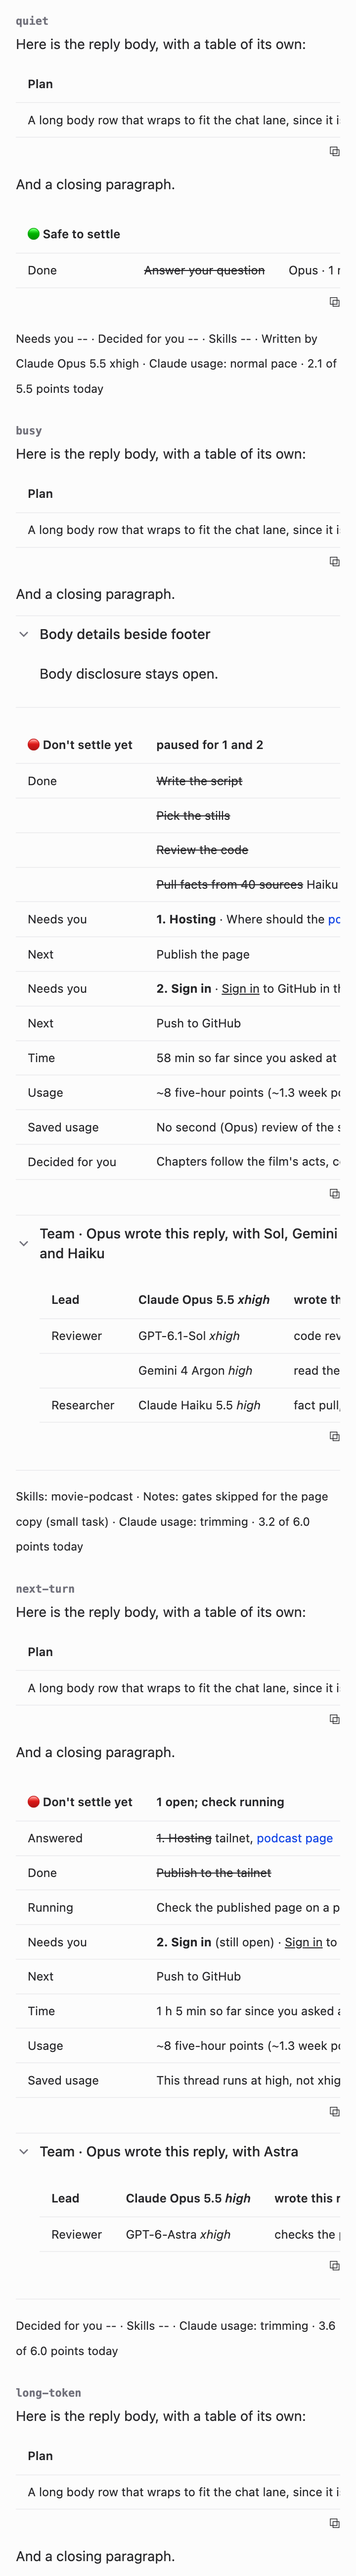
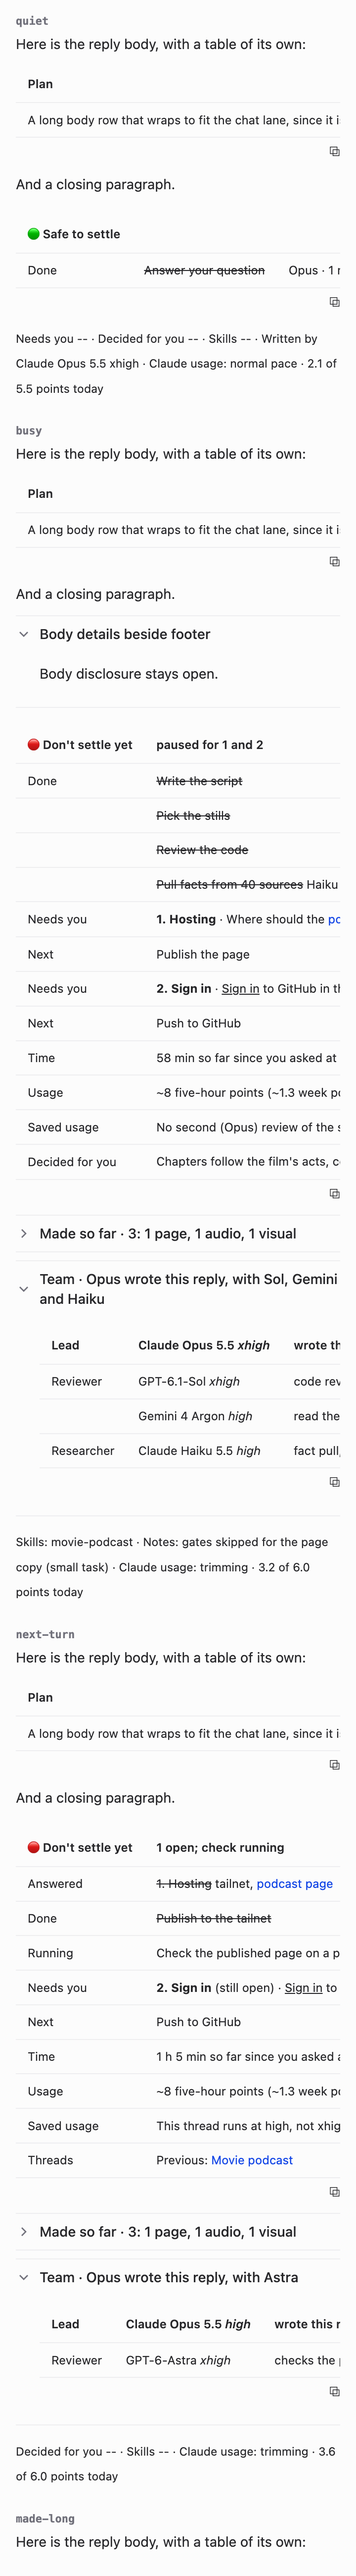
Red Needs you rows, a Threads row for handover links, one overdue amber
Andy, 13 Nov 2026: "Needs You text should be in red. also, list somewhere
with links to the previous and any next handover thread." Needs you rows
(ordinary and folded) get the verdict's red label, a 2px red bar and a 9% red
tint; a last Threads row links the neighbouring handover threads and keeps the
Decided-for-you label width. Overdue words now mix 85% warning colour with
15% text colour (5.31:1 or better on every band in light). The threads-last
test case covers the Threads row and an overdue Running row; screenshots and
the README pictures are redrawn.

diff --git a/footer.css b/footer.css
@@ -59,8 +59,10 @@
    * resizing", "Still off"). Status labels share one width per card, wide enough for the longest label it uses. */
   --t3x-lw: calc(5.1em + 1rem);
   &:has(tbody [itemprop~="saved"]) { --t3x-lw: calc(6.3em + 1rem); }
-  /* "Decided for you" is the last row and has no who-and-when (:has() can't nest, so this is how it is found) */
-  &:has(tbody tr:last-child > td:last-child:empty) { --t3x-lw: calc(7.9em + 1rem); }
+  /* "Decided for you" has no who-and-when: it is the last row with an empty third cell, or the row just before a
+   * Threads row, which comes last and has an empty third cell too (:has() can't nest, so the card takes two tests) */
+  &:has(tbody tr:last-child > td:last-child:empty):not(:has(tbody tr:last-child [itemprop~="threads"])) { --t3x-lw: calc(7.9em + 1rem); }
+  &:has(tbody tr:last-child [itemprop~="threads"]):has(tbody tr:nth-last-child(2) > td:last-child:empty) { --t3x-lw: calc(7.9em + 1rem); }
   & table { display: block; width: 100%; min-width: 0; font-size: .8125rem; line-height: 1.5; font-variant-numeric: tabular-nums; }
   & tbody { display: block; }
   & tbody tr { display: flex; flex-wrap: wrap; align-items: flex-start; }
@@ -114,9 +116,10 @@
     animation: t3x-footer-pulse 1.6s ease-in-out infinite;
   }
 
-  /* needs you: a neutral bar and a faint tint, the label in full strength; the words to act on are underlined */
-  & tbody tr:has(> td:nth-child(2) > strong:first-child) { background: color-mix(in srgb, var(--foreground) 5%, transparent); box-shadow: inset 2px 0 0 var(--foreground); padding-block: .36rem; }
-  & tbody tr:has(> td:nth-child(2) > strong:first-child) td:first-child { color: var(--foreground); }
+  /* needs you (Andy, 13 Nov 2026: "Needs You text should be in red"; the team's pick, his yes the same night): a red
+   * bar, a 9% red tint and the label in the verdict's red; the item's own words, links and action words keep their colours; the words to act on are underlined */
+  & tbody tr:has(> td:nth-child(2) > strong:first-child) { background: color-mix(in srgb, var(--t3x-bad) 9%, transparent); box-shadow: inset 2px 0 0 var(--t3x-bad); padding-block: .36rem; }
+  & tbody tr:has(> td:nth-child(2) > strong:first-child) td:first-child { color: color-mix(in srgb, var(--t3x-bad) 75%, var(--foreground)); }
   /* a folded Needs you item (the Thread health watch writes each item as a <details> in the step cell, its advice as a
    * second <details> inside): one tight line each, without T3's fold border, padding or larger type; an open item's
    * text is lightly indented (Andy, 7 Nov 2026: "it's still so big, can you make it more compact when it's in its
@@ -126,8 +129,8 @@
   & td:nth-child(2) [data-markdown-details-summary] > svg { width: .8rem; height: .8rem; }
   & td:nth-child(2) [data-markdown-details-content] { padding: .15rem 0 .3rem 1rem; }
   & td:nth-child(2) [data-markdown-details-content] div:has(> [data-markdown-details]) { margin-top: .25rem; }
-  & tbody tr:has(> td:nth-child(2) > div:first-child > [data-markdown-details] > [data-markdown-details-summary] strong:first-child) { background: color-mix(in srgb, var(--foreground) 5%, transparent); box-shadow: inset 2px 0 0 var(--foreground); padding-block: .1rem; }
-  & tbody tr:has(> td:nth-child(2) > div:first-child > [data-markdown-details] > [data-markdown-details-summary] strong:first-child) td:first-child { color: var(--foreground); }
+  & tbody tr:has(> td:nth-child(2) > div:first-child > [data-markdown-details] > [data-markdown-details-summary] strong:first-child) { background: color-mix(in srgb, var(--t3x-bad) 9%, transparent); box-shadow: inset 2px 0 0 var(--t3x-bad); padding-block: .1rem; }
+  & tbody tr:has(> td:nth-child(2) > div:first-child > [data-markdown-details] > [data-markdown-details-summary] strong:first-child) td:first-child { color: color-mix(in srgb, var(--t3x-bad) 75%, var(--foreground)); }
   & tbody tr:has(> td:nth-child(2) > div:first-child > [data-markdown-details]) > td { padding-block: .06rem; }
   /* decided for you: quiet, still readable */
   & tbody tr:has(> td:last-child:empty):not(:has(strong, del, [itemprop])) td:nth-child(2) { color: var(--muted-foreground); }
@@ -137,8 +140,9 @@
   & tbody tr:has([itemprop~="saved"]) { background: color-mix(in srgb, var(--warning, #f59e0b) 9%, transparent); box-shadow: inset 2px 0 0 var(--warning, #f59e0b); }
   & tbody tr:has([itemprop~="saved"]) td:first-child { color: var(--foreground); }
   & tbody tr:has([itemprop~="saved"]) td:last-child { color: color-mix(in srgb, var(--muted-foreground) 55%, var(--foreground)); }
-  /* time over its plan (rule "Honest time"): the theme's warning text colour */
-  & [itemprop~="over"] { color: var(--warning-foreground, #b45309); }
+  /* time over its plan (rule "Honest time"): the theme's warning text colour with 15% of the text colour, so it reads
+   * at 4.5:1 or better on every band, the red Needs you and blue Running rows included (Andy, 13 Nov 2026, the team's pick) */
+  & [itemprop~="over"] { color: color-mix(in srgb, var(--warning-foreground, #b45309) 85%, var(--foreground)); }
 
   /* header as a caption: verdict, reason, then progress and ETA on the right */
   & thead {

diff --git a/RULES.md b/RULES.md
@@ -1,5 +1,5 @@
 ## End every reply to Andy with a footer
-End every reply to Andy (each turn's last message), even short ones, with a footer: the turn's plan (what finished, what's running, what needs him, what's next), honest time against the plan, anything changed to save usage, whether the thread is finished, and who did the work. `---`, one plan table, a Made so far list once the thread has made something for him to open, a team rundown when other agents worked, one small line. T3's add-ons draw it as one card: the verdict red or green, running steps in the theme's accent, finished steps crossed out, who and when on the right. Copy these shapes.
+End every reply to Andy (each turn's last message), even short ones, with a footer: the turn's plan (what finished, what's running, what needs him, what's next), honest time against the plan, anything changed to save usage, whether the thread is finished, and who did the work. `---`, one plan table, a Made so far list once the thread has made something for him to open, a team rundown when other agents worked, one small line. T3's add-ons draw it as one card: the verdict red or green, Needs you rows in red, running steps in the theme's accent, finished steps crossed out, who and when on the right. Copy these shapes.
 
 A quiet turn:
 
@@ -70,6 +70,7 @@ The next turn, after Andy answers 1 with a card still open for 2:
 | Time | 1 h 5 min so far since you asked at 8:58 PM, 2 min of it waiting on you; about 15 more once you sign in | <span itemprop="over">planned ~45 min · expect ~1 h 20</span> |
 | Usage | ~8 five-hour points (~1.3 week points) expected at the default efforts (baseline); about 7 so far (this thread and its children, estimated); this thread at high, no change expected for publishing (my judgment) | 5-hour 52% · refills 11:00 PM |
 | Saved usage | <span itemprop="saved">This thread runs at high, not xhigh</span>, since 9:58 PM (you approved): no change expected for publishing steps (my judgment) | under 10% of a turn |
+| Threads | <span itemprop="threads">Previous: [Movie podcast](t3-thread://v2/env/thread-id)</span> |   |
 
 <details><summary><span itemprop="made">Made so far</span> · 3: 1 page, 1 audio, 1 visual</summary>
 
@@ -96,8 +97,8 @@ When he resolves the last open item: `| Answered | 🎉 All answered, thanks! ~~
 **Layout.**
 - Blank lines before and after `---`, after the plan table, after each `<summary>…</summary>`, before and after each `</details>` and before the `<sub>` line. One physical line per row, always three cells (an unused cell holds one space); escape every literal `|` in a cell as `\|`, in code and links too; no `\` line endings.
 - **Header row:** the verdict; a reason of 5 words or fewer (empty when green); progress `N of M done` (N = Done rows, M = Done + Running + Next rows, continuation rows included), then `· ETA 10:05 PM` when nothing listed waits on Andy, or `· then about 10 min` (from when he acts to the end, running work included) when something does; empty for a turn with one step or none. Separator `|---|---|--:|`.
-- **Plan rows** in time order, each label on the first row of its run: `Answered` (`~~N. Topic~~ answer`, one row per item resolved since the last reply); `Done` (`~~step~~`, steps finished this turn, the deliverable linked); `Running` (`<span itemprop="running">step</span>`); `Needs you` (each open item right above the step it unblocks, else after Running); `Next`; `Time`; `Usage`; `Saved usage`; `Decided for you` (this turn's choices Andy may want to change, and how; no reply needed, not carried forward). Steps read like a plan: 2–6 words naming the subject (`Review the card CSS`), no trailing punctuation. A quick answer is one Done row (`~~Answer your question~~`); a turn that only records an answer shows its Answered row and the plan still to come, with no invented Done step.
-- **Who and when** (third cell): Done `Sol · 11 min · planned 8`; Running `Sol · 9:41–9:55 PM · planned 10`; Next `Opus · ~5 min`; a step added later `added · planned 5` (estimated before it started) or `added · not estimated beforehand`; empty for Answered, Needs you and Decided for you. Short names: Opus, Fable, Haiku, Sonnet, Sol, Astra, Grok, Gemini (4 Argon), Flash (3.8 Flash); a script says `script`.
+- **Plan rows** in time order, each label on the first row of its run: `Answered` (`~~N. Topic~~ answer`, one row per item resolved since the last reply); `Done` (`~~step~~`, steps finished this turn, the deliverable linked); `Running` (`<span itemprop="running">step</span>`); `Needs you` (each open item right above the step it unblocks, else after Running); `Next`; `Time`; `Usage`; `Saved usage`; `Decided for you` (this turn's choices Andy may want to change, and how; no reply needed, not carried forward); `Threads` (last; **Threads row** below). Steps read like a plan: 2–6 words naming the subject (`Review the card CSS`), no trailing punctuation. A quick answer is one Done row (`~~Answer your question~~`); a turn that only records an answer shows its Answered row and the plan still to come, with no invented Done step.
+- **Who and when** (third cell): Done `Sol · 11 min · planned 8`; Running `Sol · 9:41–9:55 PM · planned 10`; Next `Opus · ~5 min`; a step added later `added · planned 5` (estimated before it started) or `added · not estimated beforehand`; empty for Answered, Needs you, Decided for you and Threads. Short names: Opus, Fable, Haiku, Sonnet, Sol, Astra, Grok, Gemini (4 Argon), Flash (3.8 Flash); a script says `script`.
 - **Honest time** (Andy, 19 Oct 2026: end-to-end and per-task time "against pre-determined expectation"):
   - Before work of more than one step, estimate the whole and each step in your first message of the task (an opening note counts), and record the request time and plan (in the living handoff file for multi-turn work). Every later footer, across turns and handovers, compares against those numbers; a re-plan is shown beside the original (`planned ~45 min, re-planned 1 h 30`).
   - **Time row** in every footer of a planned task, first reply to last (waiting, answer-only and one-step turns included; only a quick standalone answer has none). Second cell: the time since Andy asked and when (`58 min so far since you asked at 8:58 PM; about 10 more once you answer`; `in all` at the end), naming time spent waiting on him, never subtracting it. Third cell: the planned total and, while work remains, the expected total (`planned ~45 min · expect ~1 h 10`); at the end, the difference (`· 13 over`, `· 5 under`, `· on plan` within 10%). Count queues, usage pauses, failed runs, retries, gates and publishing; never add up parallel steps.
@@ -105,6 +106,7 @@ When he resolves the last open item: `| Answered | 🎉 All answered, thanks! ~~
   - Compare unrounded; show whole minutes (at least 1) in Mac local time (`h:mm PM`). Round estimates up to `~1`, `~2`, `~5` or `~10 min`, then in steps of 5 (`~1 h 15`), and clock ETAs up to the next 5 minutes. Wrap a time or expected total more than a quarter, and at least 5 minutes, over plan in `<span itemprop="over">`.
 - **Usage row** (Andy, 20 Oct 2026: "always transparently report expected usage vs quality savings/degradation", with the baseline), in every footer that has a Time row, right after it. Second cell: this task's expected Claude use at the default efforts (the baseline, in 5-hour points, plus week points once it's a point or more), the amount used so far (a task planning no Claude use writes `no Claude use planned`), and any lowered effort with its quality effect in a few words (details in Saved usage). Third cell: the 5-hour window now and its refill (`5-hour 41% · refills 11:00 PM`), adding `· runs out ~10:40 PM at this pace` when `claude-tier` prints a 5-hour pace note. `thread-cost` gives only one Claude session's recent split between context and output, not a task total or plan points, so report "used so far" only from an accounting scoped to this task's lead and child calls, saying what it covers (`about 0.5 so far, this thread only`), or write `used so far: unmeasured`. Converting API-equivalent dollars to points (about $4 per 5-hour point, 20 Oct 2026) is a rough estimate.
 - **Saved usage** (Andy, 19 Oct 2026: only "the changes from default, and what impact if any"): one row per change from the default that a usage rule caused this turn (a tier, dire straits, a Codex-gate fallback, a skipped optional reviewer, a lower effort for a helper), and one for this thread's own lowered effort while it's in effect. Give the default, what ran instead and the rule, and the likely quality effect, marked measured (name the test) or your judgment; the third cell gives the rough saving (`~1 Claude point`, `under 10% of a turn`, `unmeasured`). Put the change in `<span itemprop="saved">`. Nothing changed, no row.
+- **Threads row** (Andy, 13 Nov 2026: "list somewhere with links to the previous and any next handover thread"; the team's pick, his yes the same night). Every footer of a thread that took over from another ends its plan table with `| Threads | <span itemprop="threads">Previous: [title](t3-thread://…)</span> |   |`, and the reply that hands over writes `Previous: [X] · Next: [Y]` (`Next: [Y]` alone in a first thread). Each is the thread's `link` copied whole, exactly as `t3_thread_list`, `t3_thread_read` or `t3_thread_launch` gives it (already a complete `[title](t3-thread://v2/…)` link; never the handover tool's short `t3-thread://v1/…` owner link), kept in the handoff file. Neighbours only: never "no next thread yet", and a thread with neither has no row. The row isn't counted in the header's progress, and like Made so far it doesn't count against giving a link once (**Links**).
 - **Made so far** (Andy, 12 Nov 2026: a section "for anything non-text created in the thread (and have it survive handoffs) … so I don't have to scroll up to find these things"; his six card answers that evening set the rest). From the reply in which the thread first makes something for Andy to open, every footer carries the list, right after the plan table and above the team rundown, quick answers included; a thread that has made nothing has no list.
   - **Shape:** `<details>` (never `open`: the ✦ add-ons open short lists in a wide pane), the summary `<span itemprop="made">Made so far</span> · N: ` then how many of each kind, its name in lower case and singular for one (`· 14: 3 pages, 3 audio, 8 visuals`; `· 3: 1 page, 1 audio, 1 visual`; `2 videos`, but `audio` never takes an s). Then a blank line and a three-column table, one thing per row, whose first row doubles as the header row (as `Lead` does in the team rundown), so the `|---|---|---|` line is always the second line, also after a new first row goes in above it. Its columns: the kind, on the first row of its group only; the thing's name in plain words, as the link; a note.
   - **Listed:** things made for Andy to open, and only those: pages and sites, Claude artifacts and phone pages (`Pages`); `Audio`; `Video`; visuals shown inline in the thread (`Visuals`); `Images`; and `Documents` (PDFs, slides, spreadsheets, a data export made for him). Never repos, pull requests or code. Never your own working files (briefs, logs, handoff files, and checks or screenshots he wasn't shown). Anything non-text you showed him or linked for him in a reply, or made because he asked, is a thing made for him. Things your helpers made for him count. Kinds in that order, empty kinds left out, newest first inside a kind (by when each thing was made or last changed). One row per thing: a visual you redraw or a page you publish keeps its row, with the link and note updated; versions made for him to compare keep a row each.
@@ -114,7 +116,7 @@ When he resolves the last open item: `| Answered | 🎉 All answered, thanks! ~~
   - **Kept** in the handoff file's section 9, `Made in this thread` (the same three columns, each thing's date and time in full; `Nothing yet` until there is one), updated in the turn a thing is made or changes; the footer shows that section's rows (not its `| Kind | Thing | Note |` header line, when it has one), each with a clock time for today or a date otherwise. A thread with no handoff file copies the list forward from its last footer, turning an earlier day's clock times into dates, and copies it into section 9 when it starts a file. After a handover the new thread first changes `in this thread` to `earlier thread` in section 9's notes (its heading stays `Made in this thread`), then shows the whole list from its first footer on. A row leaves the list only when Andy asks.
 - **Team rundown,** only when another agent started or reported this turn: `<details open><summary>Team · Opus wrote this reply, with Sol and Astra</summary>`, a blank line, a table headed `| Lead | <this reply's exact model> *effort* | wrote this reply |`, then one row per agent grouped by role (Gatekeeper for pre-OK and final OK, Reviewer, Builder, Researcher; the closest fit; the role on its group's first row only): exact model and effort, then job · status (`running`, how long once done, or a failure in `<span itemprop="failed">`); a blank line, then `</details>`. Always write `open`; the ✦ add-ons panel decides how Andy sees it.
 - **The `<sub>` line:** `Needs you --`, `Decided for you --` and `Skills --` for each empty field; `Skills: …` (invoked this turn) and `Notes: …` when they have content; `Written by <exact model> <effort>` when there's no rundown; then the usage.
-- **Markup:** the verdict in `<span itemprop="settle-yes">` or `settle-no`; the `running`, `failed`, `over`, `saved`, `made` and `mac-only` spans above; `<ins>` on the words Andy acts on (`<ins>Reply</ins>`, `<ins>Sign in</ins>`); `~~…~~` only on Done steps and Answered items; bold only item topics. No other markup, no model pills, no ⚡ or 🔶.
+- **Markup:** the verdict in `<span itemprop="settle-yes">` or `settle-no`; the `running`, `failed`, `over`, `saved`, `made`, `mac-only` and `threads` spans above; `<ins>` on the words Andy acts on (`<ins>Reply</ins>`, `<ins>Sign in</ins>`); `~~…~~` only on Done steps and Answered items; bold only item topics. No other markup, no model pills, no ⚡ or 🔶.
 
 **Verdict** (it tells Andy whether the thread is finished; T3: Cmd+Shift+S).
 - `🟢 Safe to settle` is the most conservative reading of "finished" (Andy, 22 Oct 2026: "rely on the settle as the most conservative interpretation of can settle … what I want to get out of the original and followup requests and if those have actually been achieved or not. not just are there any open tasks left"). Before choosing it, reread his original request and every follow-up in the thread, name the outcome each was for (what he wanted to get, not the steps you listed), and check each against evidence seen this session (a test run, the live page, the file, the command's output), never a worker's self-report, a plan's tick or memory. When in doubt, red.
@@ -141,7 +143,7 @@ When he resolves the last open item: `| Answered | 🎉 All answered, thanks! ~~
 - **Resolution:** valid decisions and approvals resolve questions (write-ins count); `Done` resolves an action only when it's complete; `Not now` defers it, keeping it open unless Andy drops it. Show each newly resolved item once in the Answered row, struck through with its answer (`~~1. Hosting~~ tailnet`), outside the open count. Start the row with `🎉 All answered, thanks!` only in the first footer after the last open item resolves; 🎉 doesn't change the verdict test.
 - The body holds the reasoning; the footer lists. Keep each item's number the same in body, cards and footer.
 
-**Links** (Andy, 16 Oct 2026; Sol, Astra and Gemini agreed). Put each link inline where its thing is named, never on a line of its own: this turn's new or updated main deliverable in the Done row that made it; an open item's page, PR, file, doc or thread inside its Needs you row, repeated while it stays open; a just-resolved item's link once, beside its Answered receipt. When the same deliverable also appears in Done, keep its link only in Answered. Leave out other recent links. The Made so far list (**Layout**) is separate: it repeats each thing the thread has made in every footer, takes none of these links out of the plan rows, and doesn't count against "give it once"; secret-bearing links and pages that log their opens keep their limits there too. An inline visual's link in the list is its saved file, a real link, so "named, not linked" doesn't apply to it there. Usually give one per item, the thing Andy would open; if one link fits twice, give it once, in the open item. Label each in plain words. Local files take an absolute path (in a Markdown link, wrap one with spaces in `<…>`). Never invent a link (a page shown only inline is named, not linked), never link anything secret-bearing (tokens, webhook URLs) or change sharing to get a link, and say when a link has stopped working. A page that logs its opens (such as a blind reading test) gets its URL once per thread, then only its name, since Mac link previews fetch links. Links change no counts, cards or verdict.
+**Links** (Andy, 16 Oct 2026; Sol, Astra and Gemini agreed). Put each link inline where its thing is named, never on a line of its own: this turn's new or updated main deliverable in the Done row that made it; an open item's page, PR, file, doc or thread inside its Needs you row, repeated while it stays open; a just-resolved item's link once, beside its Answered receipt. When the same deliverable also appears in Done, keep its link only in Answered. Leave out other recent links. The Made so far list (**Layout**) is separate: it repeats each thing the thread has made in every footer, takes none of these links out of the plan rows, and doesn't count against "give it once"; secret-bearing links and pages that log their opens keep their limits there too. An inline visual's link in the list is its saved file, a real link, so "named, not linked" doesn't apply to it there. The Threads row's neighbour links repeat in every footer too and don't count against giving a link once either. Usually give one per item, the thing Andy would open; if one link fits twice, give it once, in the open item. Label each in plain words. Local files take an absolute path (in a Markdown link, wrap one with spaces in `<…>`). Never invent a link (a page shown only inline is named, not linked), never link anything secret-bearing (tokens, webhook URLs) or change sharing to get a link, and say when a link has stopped working. A page that logs its opens (such as a blind reading test) gets its URL once per thread, then only its name, since Mac link previews fetch links. Links change no counts, cards or verdict.
 
 **Explain every reference where it appears** (Andy, 16 Oct 2026: "I'm a human, I don't automatically know what that is referencing"). Whenever a reply names something from earlier work (a plan step, rule, item, test, batch, file, codename or count), add a short plain-English explanation in parentheses right there, every time, even if explained before or in the same reply's footer, cards or questions. Example: "…with rule 3 (judge a reply together with the post it replies to), on production's 1,138 unclear posts (the 3% that September's Gemini run couldn't call funny or not)…", not "…with rule 3, on the 1,138 unclears…".
 
@@ -151,7 +153,7 @@ When he resolves the last open item: `| Answered | 🎉 All answered, thanks! ~~
 - The usage ends the `<sub>` line, exactly as `claude-tier` or `lab-usage` prints it after `footer:` (e.g. `Claude usage: protecting · 23.0 of 9.8 points today`), or `Claude usage: protected (effort test)` for protected work, or `Claude usage: unknown` with no reading.
 - The footer is only for Andy. Agent-assigned work (subagent briefs, `delegate_task` prompts, agent- or script-started `codex exec` runs) omits it and ends with one line: `Model/effort: …; skills used: …; agents: …; needs Andy: …` (what only he can decide or do, or none). Ask your subagents for it; carry their "needs Andy" items into Needs you in your own words.
 
-**Before sending,** check: footer present; the verdict test and its span, with "running" read from T3's task state; every question or offer in the body also in a card or a Needs you row; times from `date` against the plan, the Time row and the Usage row; a Saved usage row for every change a usage rule made; every unresolved item with number, link and `(still open)`, above the step it unblocks; receipts once, in Answered only; three cells and one line per row, each literal `|` escaped; exact models and efforts in the rundown or `Written by`; the Made so far list when the thread has made anything for Andy to open, matching the handoff file's section 9 when there is one; the usage line.
+**Before sending,** check: footer present; the verdict test and its span, with "running" read from T3's task state; every question or offer in the body also in a card or a Needs you row; times from `date` against the plan, the Time row and the Usage row; a Saved usage row for every change a usage rule made; every unresolved item with number, link and `(still open)`, above the step it unblocks; receipts once, in Answered only; three cells and one line per row, each literal `|` escaped; exact models and efforts in the rundown or `Written by`; the Made so far list when the thread has made anything for Andy to open, matching the handoff file's section 9 when there is one; the Threads row after a handover; the usage line.
 
 This section is the same in `~/.claude/CLAUDE.md`, `~/.codex/AGENTS.md` and `~/.gemini/GEMINI.md`; change all three together.
 

diff --git a/docs/DECISIONS.md b/docs/DECISIONS.md
@@ -16,3 +16,6 @@ Dated choices that shaped the footer, oldest first.
 - **7 Nov 2026:** In a lane of 40rem or more, a busy card (five or more rows) widens to the lane, up to 52rem ("when window is wider than the footer table, please have it expand to fit, within reason"). Astra picked full width; Gemini preferred a card that grows only a little. Full width won because it cut the most wrapped lines while keeping who-and-when on one right edge.
 - **7 Nov 2026:** T3 Nightly removed the `chat-lane` container the narrow and wide layouts were keyed to, so they stopped applying in the live app. footer.css now gives each reply that ends in a footer card its own container (`t3x-lane`), only those replies, since making every reply text a container would collapse T3's shrink-to-fit message bubbles. The tests no longer supply `chat-lane`.
 - **12 Nov 2026:** A "Made so far" list under the card, above the team list, for the things a thread has made that the reader opens (pages and sites, artifacts, inline visuals, images, audio, video, documents; never repos, pull requests or code), "so I don't have to scroll up to find these things". Andy's six picks, each the review team's agreed advice: its own fold under the card, a small table with one thing per row, grouped by kind, the name as the link; agents always write it folded, and an add-on switch (start folded, open short lists, always open, hide) starts on "open short lists" (five things or fewer open by themselves on the newest reply in a wide pane); kinds in the order Pages, Audio, Video, Visuals, Images, Documents, newest first inside each, empty kinds left out; notes say what you get or where it is, then when, and things that only open on the author's Mac start "Mac only" (hidden inside the Mac app); links open the saved copy. The list survives a handover: it lives in the thread's handoff file and the new thread reprints it. footer.css keys the team-list rules so they never act on the Made fold. Later that evening he confirmed the team's wording for five leftover points: the switch is named "Footer Made so far list"; counts read `2 videos` and `3 audio`; an agent's own working files (briefs, logs, checks or screenshots the reader wasn't shown) are never listed; a thing whose link no longer works keeps its row, unlinked, with the note `no longer opens` (`deleted` only when that is known); and a click on a link in a list the add-on opened by itself holds it open while that reply is the newest.
+- **13 Nov 2026:** Needs you rows turn red ("Needs You text should be in red"): the label in the verdict's red, a 2px red bar and a 9% red tint, on ordinary rows and the health watch's folded items. The item's own words, links and underlined action words keep their colours. A cross-lab review team agreed unanimously in round 3: 9% matches the other bands (measured colour difference against the card: red 8.5 in light, 10.2 in dark, beside Running 8.7 and 11.3); red action words read as a third kind of link. The confirm also offered a smaller fix, only the label in red, which Andy passed over.
+- **13 Nov 2026:** A last "Threads" row links the neighbouring handover threads ("list somewhere with links to the previous and any next handover thread"): `Previous: [title]` in every footer of a thread that took over, plus `Next: [title]` on the reply that hands over. Neighbours only, with no "5th thread" count: handover titles already carry their number, and at phone width a count dropped under "Next" like a caption. The row carries `itemprop="threads"` so it keeps the card's label width and isn't drawn quiet; a row written without that span still reads, but quiet and at the Decided-for-you width.
+- **13 Nov 2026:** Overdue and over-plan words (`itemprop="over"`) use one slightly darker amber everywhere: the theme's warning text colour with 15% of the text colour. The red band put them at 4.42:1 in light, and they were already 4.46:1 on the blue Running row (40 real footers carried an overdue time there, and no test covered it). The new colour reads at 5.31:1 or better on every band and 6.03:1 on plain rows; dark stays near 10:1. The team agreed unanimously in round 2, preferring one colour card-wide to a red-rows-only fix that would leave the Running row failing; Andy confirmed it. The threads-last test case now carries an overdue Running row.

diff --git a/test/fixtures/threads-last.md b/test/fixtures/threads-last.md
@@ -1,0 +1,17 @@
+---
+
+| <span itemprop="settle-no">🔴 Don't settle yet</span> | paused for 1 | 2 of 5 done · then about 20 min |
+|---|---|--:|
+| Done | ~~Write the handoff file~~ | Opus · 3 min · planned 5 |
+|   | ~~Launch the new thread~~ | Opus · 1 min · planned 2 |
+| Running | <span itemprop="running">Check the old thread settled</span> | Astra · <span itemprop="over">10:02–10:25 PM · planned 10</span> |
+| Needs you | **1. Hosting** · Where should the [podcast page](/Users/you/Library/Caches/podcast/index.html) live? A: tailnet, private to your devices (recommended). B: keep it local. <ins>Reply</ins> `1A`, `1B` or `explain 1`. Blocks publishing. |   |
+| Next | Publish the page | Opus · ~5 min |
+|   | Check it on a phone | Astra · ~10 min |
+| Time | 1 h 5 min so far since you asked at 8:58 PM; about 20 more once you answer | <span itemprop="over">planned ~45 min · expect ~1 h 25</span> |
+| Usage | ~8 five-hour points (~1.3 week points) expected at the default efforts (baseline); about 7 so far, this thread only | week 56% · refills Sun 4:00 PM |
+| Saved usage | <span itemprop="saved">No second review of the page copy</span> (T1 Trim): a small risk a wording slip gets through (my judgment) | ~1 Claude point |
+| Decided for you | Chapters follow the film's acts; ask and I'll split them by scene. |   |
+| Threads | <span itemprop="threads">Previous: [Movie podcast episode (4)](t3-thread://v2/env/thread-4) · Next: [Movie podcast episode (6)](t3-thread://v2/env/thread-6)</span> |   |
+
+<sub>Skills -- · Written by Claude Opus 5.5 xhigh · Claude usage: protecting · 3.6 of 6.0 points today</sub>

diff --git a/docs/SESSION_HANDOFF.md b/docs/SESSION_HANDOFF.md
@@ -5,6 +5,7 @@
 - 19–20 Oct 2026: Round 11 built and installed: a three-column card, the verdict in the header, a four-mode team list, Time / Usage / Saved usage rows, and wrapping rows.
 - 20 Oct 2026: Moved out of the T3 scratch folder into this repo. The test harness was made portable: Chrome is found automatically or set with `CHROME`, and dependencies install with `npm ci`. Its row-order check now allows the Usage row.
 - 12 Nov 2026: A "Made so far" list added under the card (rules, CSS, 21 test views); the add-on gained its switch and hides "Mac only" inside the Mac app.
+- 13 Nov 2026: Needs you rows turned red and a Threads row added (rules, CSS, a new threads-last test case; label-width checks in wider lanes). Overdue words now mix 85% warning colour with 15% text colour, and threads-last carries an overdue Running row so the contrast check covers that band. The installed copy in `extras.css` differs from `footer.css` in its header comment and in underlining only a direct `<ins>` in a Needs you step; edit both line by line rather than copying one over the other.
 
 ## Where things live on the author's Mac
 - The source of truth for the rules is `~/.claude/CLAUDE.md` (mirrored in `~/.codex/AGENTS.md` and `~/.gemini/GEMINI.md`). Update `RULES.md` here when that changes, and replace personal paths and hostnames before committing.

diff --git a/README.md b/README.md
@@ -67,6 +67,8 @@ It needs Node 20+ and Chrome. Set `CHROME=/path/to/chrome` if it isn't found.
 - [x] Phone layout (who-and-when drops under the step), keyed to the chat lane's width
 - [x] Reply tables wrap to fit the chat pane, and a table that scrolls shows its scrollbar
 - [x] Made so far list under the card (12 Nov 2026): one thing per row, grouped by kind, written folded
+- [x] Needs you rows in red, and a Threads row linking the previous and next handover thread (13 Nov 2026)
+- [x] One darker amber for overdue words, readable on every band (13 Nov 2026)
 - [ ] A native user-stylesheet hook in T3, so no loader is needed
 
 ## License
